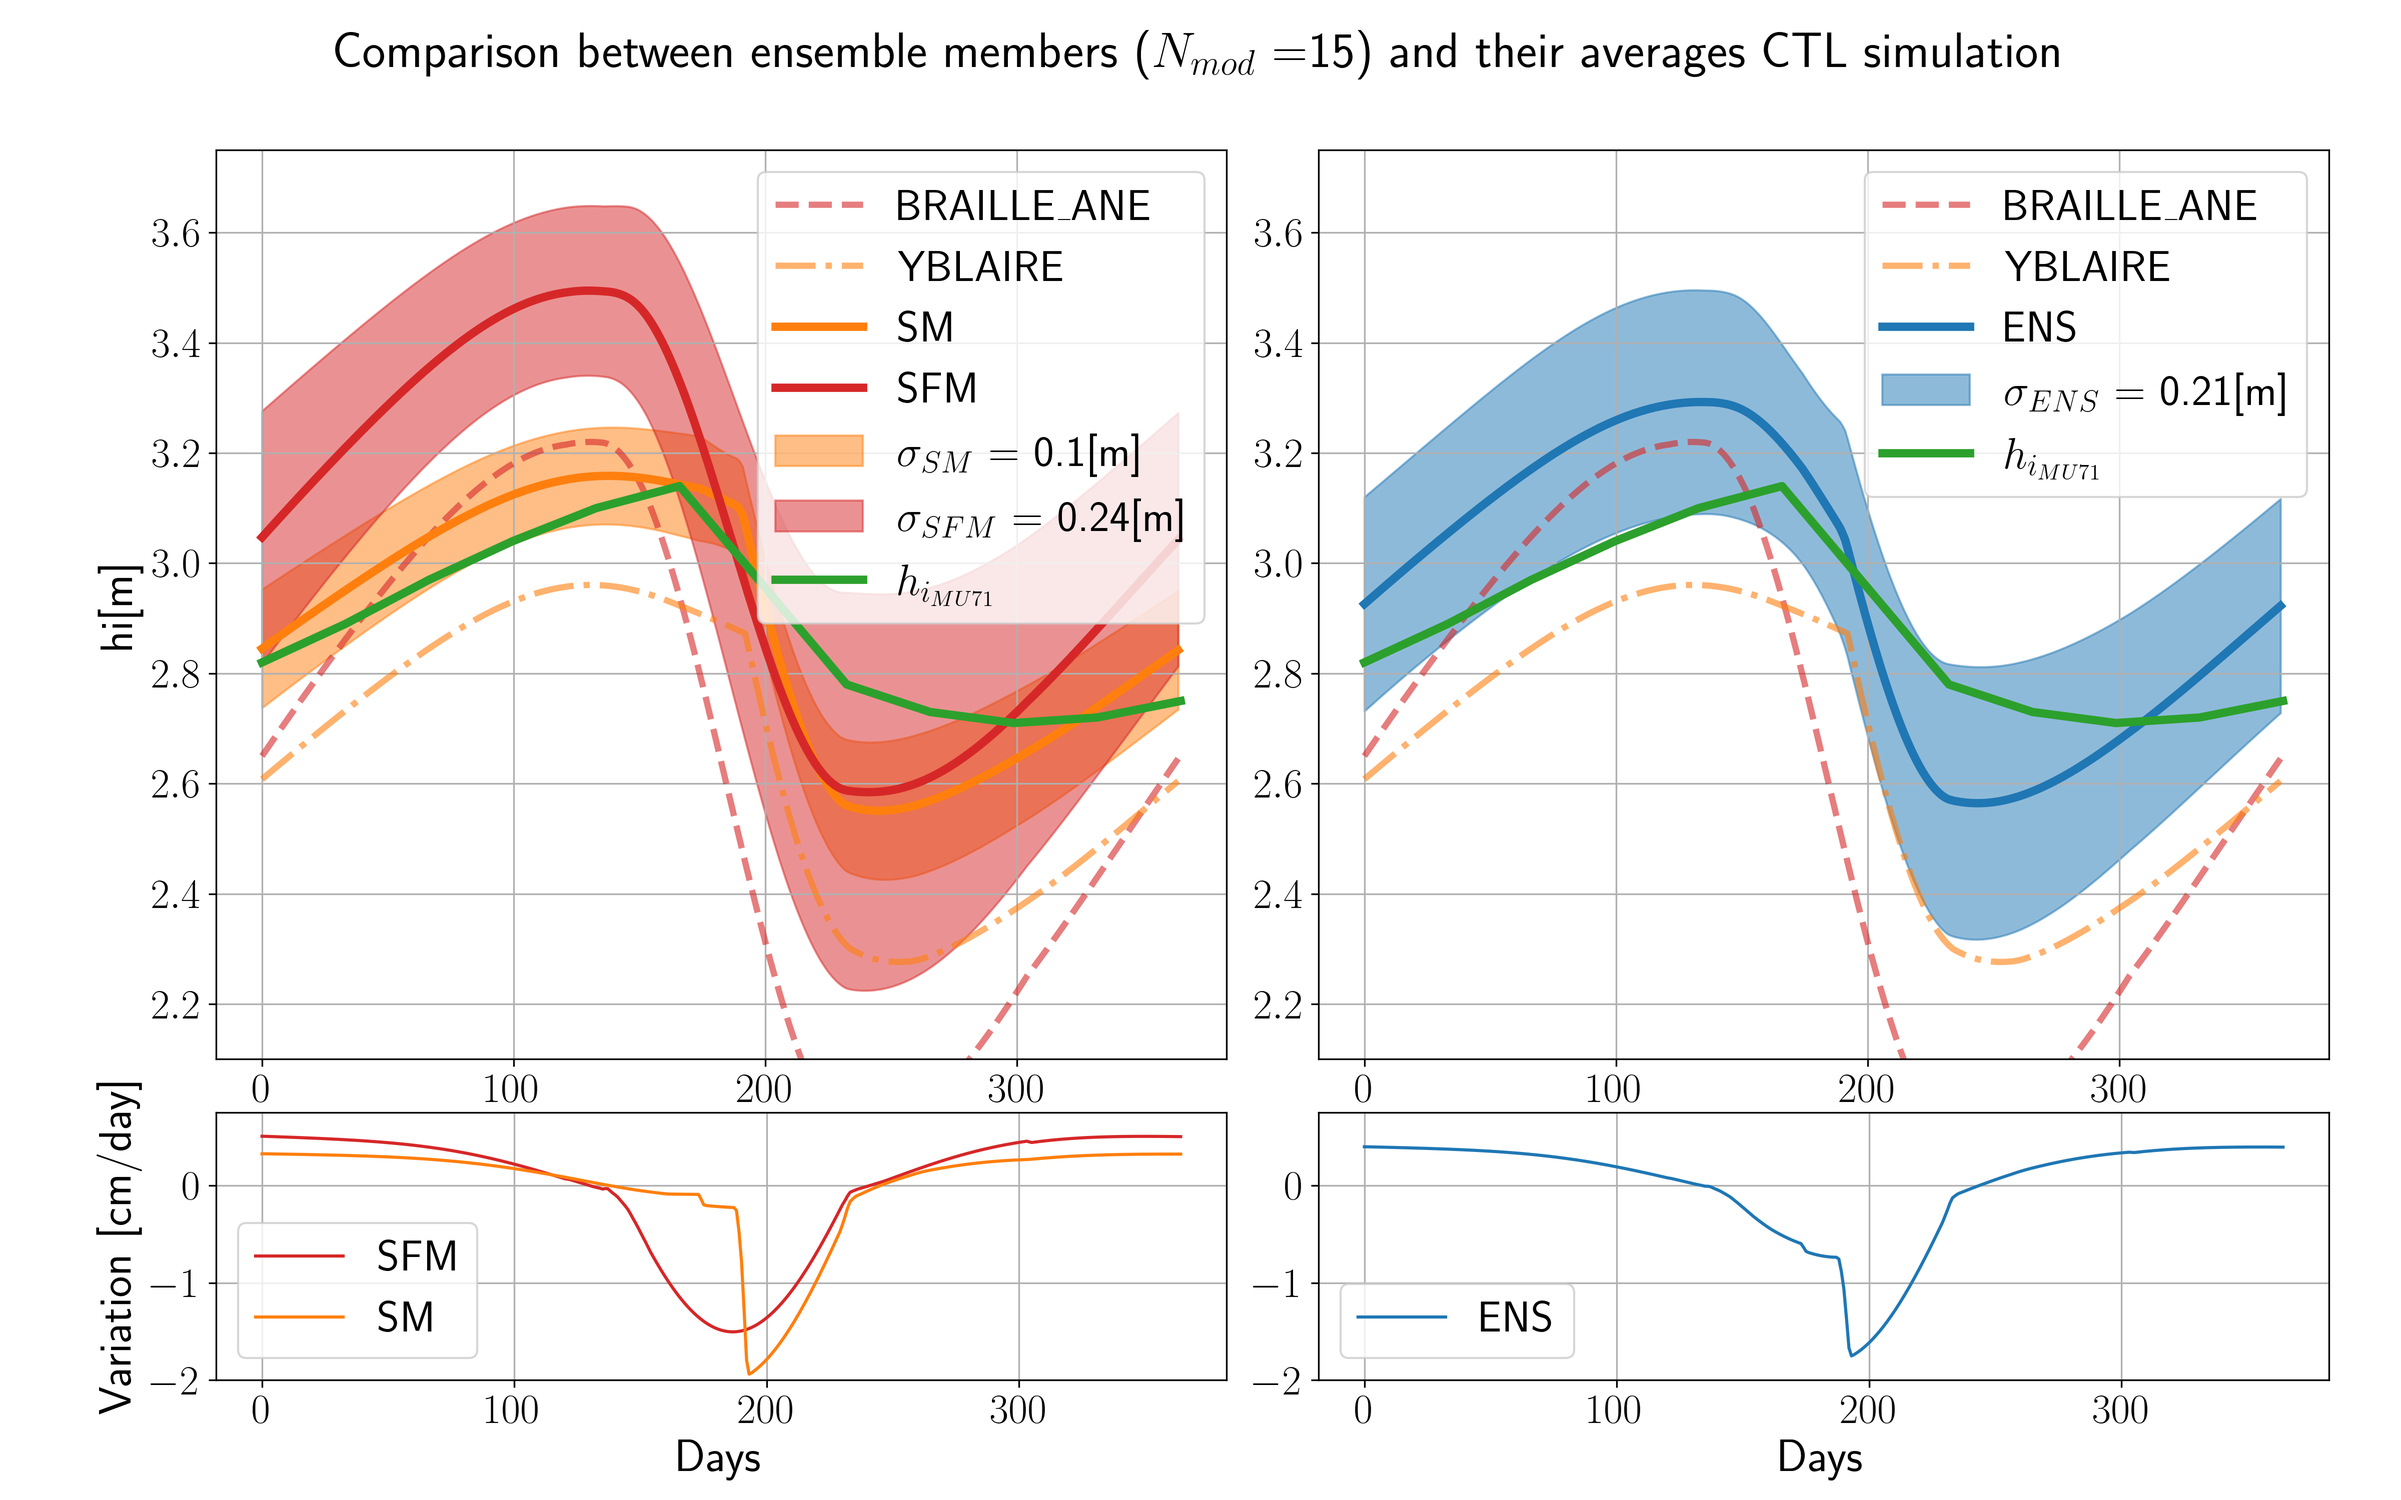
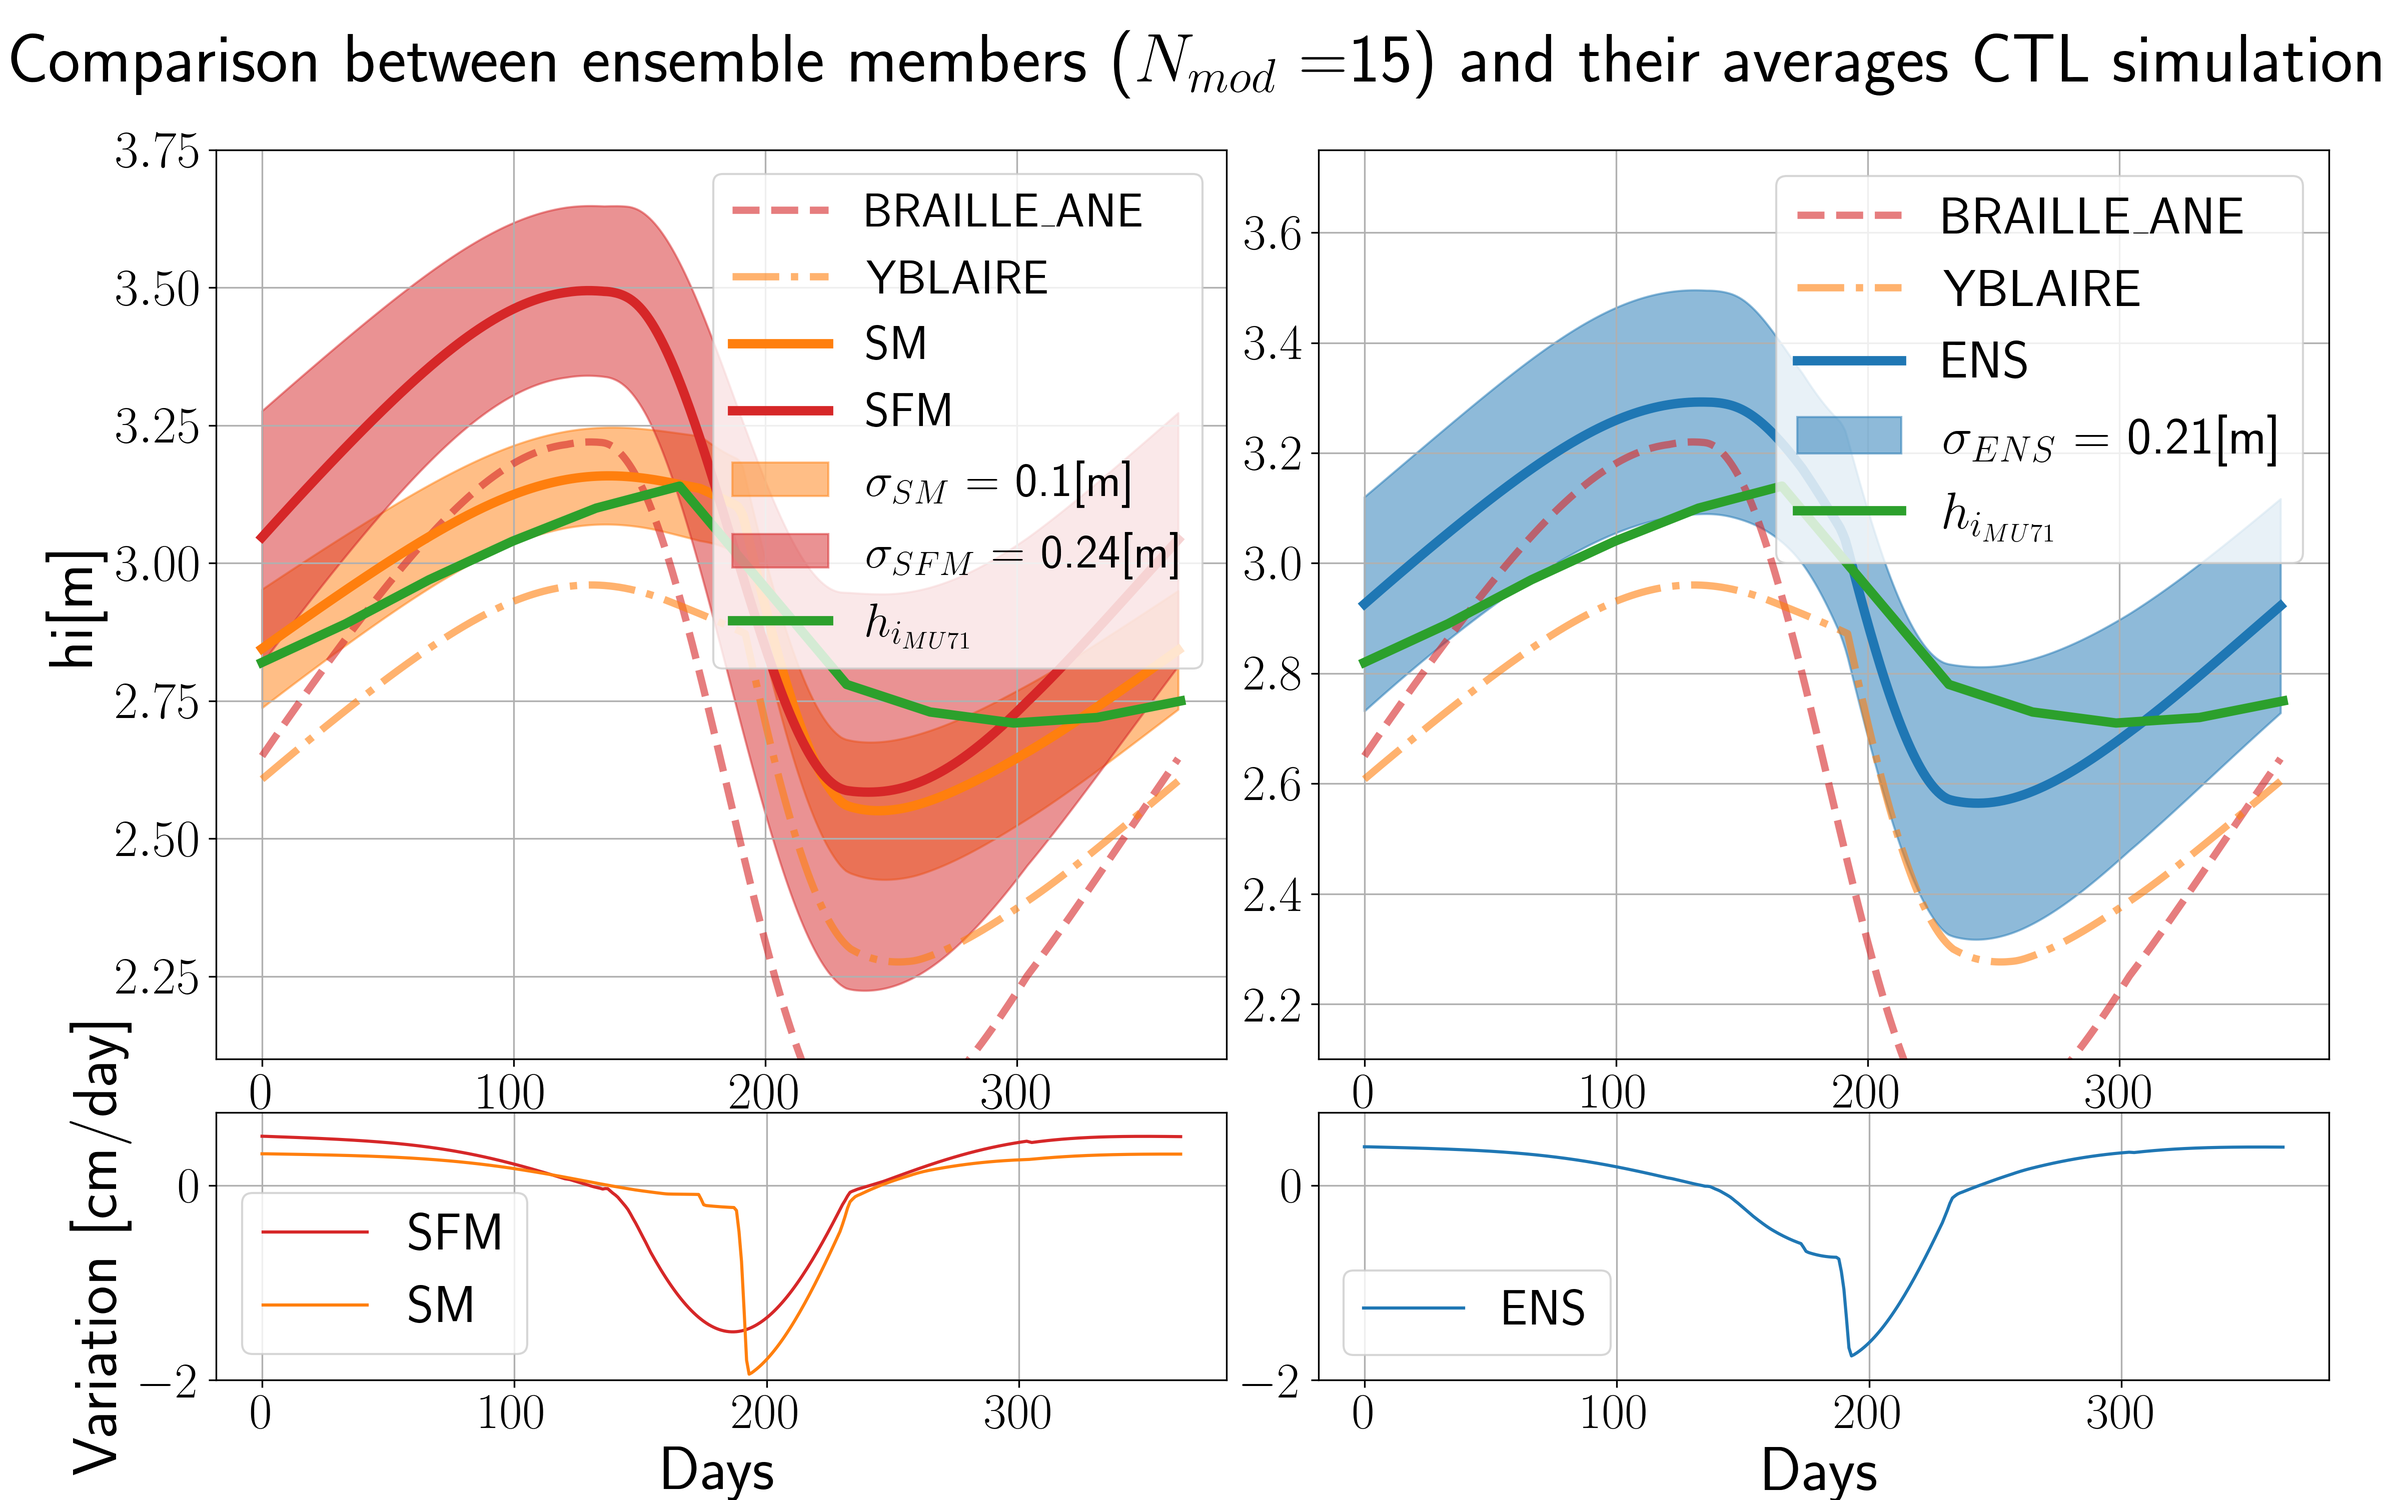
Final mod Figs

diff --git a/Ensemble Projections/data_analysis.py b/Ensemble Projections/data_analysis.py
@@ -989,7 +989,7 @@ def subplot_all_mod2(
             time_range,
             data[:, model_index_vancop_diff[0]],
             alpha=0.6,
-            linewidth=3 * lab_size_fact_mod,
+            linewidth=3.5 * lab_size_fact_mod,
             color="tab:red",
             linestyle="dashed",
             label="BRAILLE_ANE",
@@ -999,7 +999,7 @@ def subplot_all_mod2(
             time_range,
             data[:, model_index_vancop_diff[1]],
             alpha=0.6,
-            linewidth=3 * lab_size_fact_mod,
+            linewidth=3.5 * lab_size_fact_mod,
             color="tab:orange",
             linestyle="-.",
             label="YBLAIRE",
@@ -1009,7 +1009,7 @@ def subplot_all_mod2(
                 time_range,
                 data[:, model_index_vancop_Semt_0_lay[0]],
                 alpha=0.6,
-                linewidth=3 * lab_size_fact_mod,
+                linewidth=3.5 * lab_size_fact_mod,
                 color="tab:orange",
                 linestyle=":",
                 label="SUPERN_ICE",
@@ -1020,7 +1020,7 @@ def subplot_all_mod2(
             time_range,
             np.take(data, model_index_without_snow_student, axis=1),
             alpha=0.6,
-            linewidth=1 * lab_size_fact_mod,
+            linewidth=1.5 * lab_size_fact_mod,
             color="tab:red",
         )
         # with snow
@@ -1028,7 +1028,7 @@ def subplot_all_mod2(
             time_range,
             np.delete(data, model_index_without_snow_student, axis=1),
             alpha=0.6,
-            linewidth=1 * lab_size_fact_mod,
+            linewidth=1.5 * lab_size_fact_mod,
             color="tab:orange",
         )
     ## - Mean - ##
@@ -1036,7 +1036,7 @@ def subplot_all_mod2(
     axs[0].plot(
         time_range,
         np.mean(np.delete(data, model_index_without_snow, axis=1), axis=1),
-        linewidth=4 * lab_size_fact,
+        linewidth=4.5 * lab_size_fact,
         color="tab:orange",
         label=r"SM",
     )
@@ -1044,7 +1044,7 @@ def subplot_all_mod2(
     axs[0].plot(
         time_range,
         np.mean(np.take(data, model_index_without_snow, axis=1), axis=1),
-        linewidth=4 * lab_size_fact,
+        linewidth=4.5 * lab_size_fact,
         color="tab:red",
         label=r"SFM",
     )
@@ -1088,7 +1088,7 @@ def subplot_all_mod2(
             time_range,
             data[:, model_index_vancop_diff[0]],
             alpha=0.6,
-            linewidth=3 * lab_size_fact_mod,
+            linewidth=3.5 * lab_size_fact_mod,
             color="tab:red",
             linestyle="dashed",
             label="BRAILLE_ANE",
@@ -1098,7 +1098,7 @@ def subplot_all_mod2(
             time_range,
             data[:, model_index_vancop_diff[1]],
             alpha=0.6,
-            linewidth=3 * lab_size_fact_mod,
+            linewidth=3.5 * lab_size_fact_mod,
             color="tab:orange",
             linestyle="-.",
             label="YBLAIRE",
@@ -1108,7 +1108,7 @@ def subplot_all_mod2(
                 time_range,
                 data[:, model_index_vancop_Semt_0_lay[0]],
                 alpha=0.6,
-                linewidth=3 * lab_size_fact_mod,
+                linewidth=3.5 * lab_size_fact_mod,
                 color="tab:orange",
                 linestyle=":",
                 label="SUPERN_ICE",
@@ -1119,7 +1119,7 @@ def subplot_all_mod2(
             time_range,
             np.take(data, model_index_without_snow, axis=1),
             alpha=0.6,
-            linewidth=1 * lab_size_fact_mod,
+            linewidth=1.5 * lab_size_fact_mod,
             color="tab:red",
         )
         # with snow
@@ -1127,7 +1127,7 @@ def subplot_all_mod2(
             time_range,
             np.delete(data, model_index_without_snow, axis=1),
             alpha=0.6,
-            linewidth=1 * lab_size_fact_mod,
+            linewidth=1.5 * lab_size_fact_mod,
             color="tab:orange",
         )
 
@@ -1136,7 +1136,7 @@ def subplot_all_mod2(
     axs[1].plot(
         time_range,
         np.mean(data, axis=1),
-        linewidth=4 * lab_size_fact,
+        linewidth=4.5 * lab_size_fact,
         color="tab:blue",
         label=r"ENS",
     )
@@ -1178,14 +1178,14 @@ def subplot_all_mod2(
             time_range_mu,
             hi_MU71,
             label=r"$h_{i_{MU71}}$",
-            linewidth=4 * lab_size_fact,
+            linewidth=4.5 * lab_size_fact,
             color="tab:green",
         )
         axs[1].plot(
             time_range_mu,
             hi_MU71,
             label=r"$h_{i_{MU71}}$",
-            linewidth=4 * lab_size_fact,
+            linewidth=4.5 * lab_size_fact,
             color="tab:green",
         )
     if data_name == "hi_mean_month":
@@ -1193,14 +1193,14 @@ def subplot_all_mod2(
             time_range_mu,
             hi_MU71,
             label=r"$h_{i_{MU71}}$",
-            linewidth=4 * lab_size_fact,
+            linewidth=4.5 * lab_size_fact,
             color="tab:green",
         )
         axs[1].plot(
             time_range_mu,
             hi_MU71,
             label=r"$h_{i_{MU71}}$",
-            linewidth=4 * lab_size_fact,
+            linewidth=4.5 * lab_size_fact,
             color="tab:green",
         )
 
@@ -1214,47 +1214,47 @@ def subplot_all_mod2(
         + r" and their averages "
         + extra_label
         + " simulation",
-        size=24 * lab_size_fact,
+        size=33 * lab_size_fact,
     )
     # axs[0].set_xlabel(label_x, size=25 * lab_size_fact)
     # axs[0].set_xlabel(label_x, fontsize=20)
-    axs[0].set_ylabel(data_name + unit, fontsize=22)
-    axs[0].tick_params(axis="x", labelsize=20)
-    axs[0].tick_params(axis="y", labelsize=20)
+    axs[0].set_ylabel(data_name + unit, fontsize=30)
+    axs[0].tick_params(axis="x", labelsize=25)
+    axs[0].tick_params(axis="y", labelsize=25)
     axs[0].grid()
     if data_name == "hi":
         axs[0].set_ylim(2.1, 3.75)
-    axs[0].legend(fontsize=21 * lab_size_fact)
+    axs[0].legend(fontsize=23 * lab_size_fact)
 
     # axs[1].set_xlabel(label_x, fontsize=20)
     # axs[1].set_ylabel(data_name + unit, fontsize=20)
-    axs[1].tick_params(axis="x", labelsize=20)
-    axs[1].tick_params(axis="y", labelsize=20)
+    axs[1].tick_params(axis="x", labelsize=24)
+    axs[1].tick_params(axis="y", labelsize=24)
     axs[1].grid()
     if data_name == "hi":
         axs[1].set_ylim(2.1, 3.75)
-    axs[1].legend(fontsize=21 * lab_size_fact)
+    axs[1].legend(fontsize=25 * lab_size_fact)
 
-    axs[2].set_xlabel(label_x, fontsize=22)
+    axs[2].set_xlabel(label_x, fontsize=29.5)
     if data_name == "hi":
-        axs[2].set_ylabel("Variation [cm/day]", fontsize=22)
+        axs[2].set_ylabel("Variation [cm/day]", fontsize=30)
     else:
-        axs[2].set_ylabel("Variation " + unit + "/day", fontsize=22)
-    axs[2].tick_params(axis="x", labelsize=20)
-    axs[2].tick_params(axis="y", labelsize=20)
+        axs[2].set_ylabel("Variation " + unit + "/day", fontsize=30)
+    axs[2].tick_params(axis="x", labelsize=24)
+    axs[2].tick_params(axis="y", labelsize=24)
     axs[2].grid()
-    axs[2].legend(fontsize=21 * lab_size_fact)
+    axs[2].legend(fontsize=25 * lab_size_fact)
     if data_name == "hi":
         axs[2].set_ylim(-2, 0.75)
 
-    axs[3].set_xlabel(label_x, fontsize=22)
+    axs[3].set_xlabel(label_x, fontsize=30)
     if data_name == "hi":
         axs[3].set_ylim(-2, 0.75)
     # axs[3].set_ylabel("Variation [cm/days]", fontsize=20)
-    axs[3].tick_params(axis="x", labelsize=20)
-    axs[3].tick_params(axis="y", labelsize=20)
+    axs[3].tick_params(axis="x", labelsize=24)
+    axs[3].tick_params(axis="y", labelsize=24)
     axs[3].grid()
-    axs[3].legend(fontsize=21 * lab_size_fact)
+    axs[3].legend(fontsize=24 * lab_size_fact)
 
     if display_single_models:
         extra_label_2 = "_dsm"
@@ -2125,7 +2125,7 @@ def box_plots(separate_snow=False):
     for median in bplot["medians"]:
         median.set_color("black")
 
-    fig.suptitle("Sea Ice Evolution after 100 years.")
+        fig.suptitle("Sea Ice Evolution after 100 years.")
     plt.savefig(save_dir + "BoxPlot" + ".png", dpi=300)
     # plt.show()
 
@@ -2382,4 +2382,3 @@ if __name__ == "__main__":
         subplot_sum_proj()
         subplot_sum_proj2()
         box_plots()
-    box_plots()
